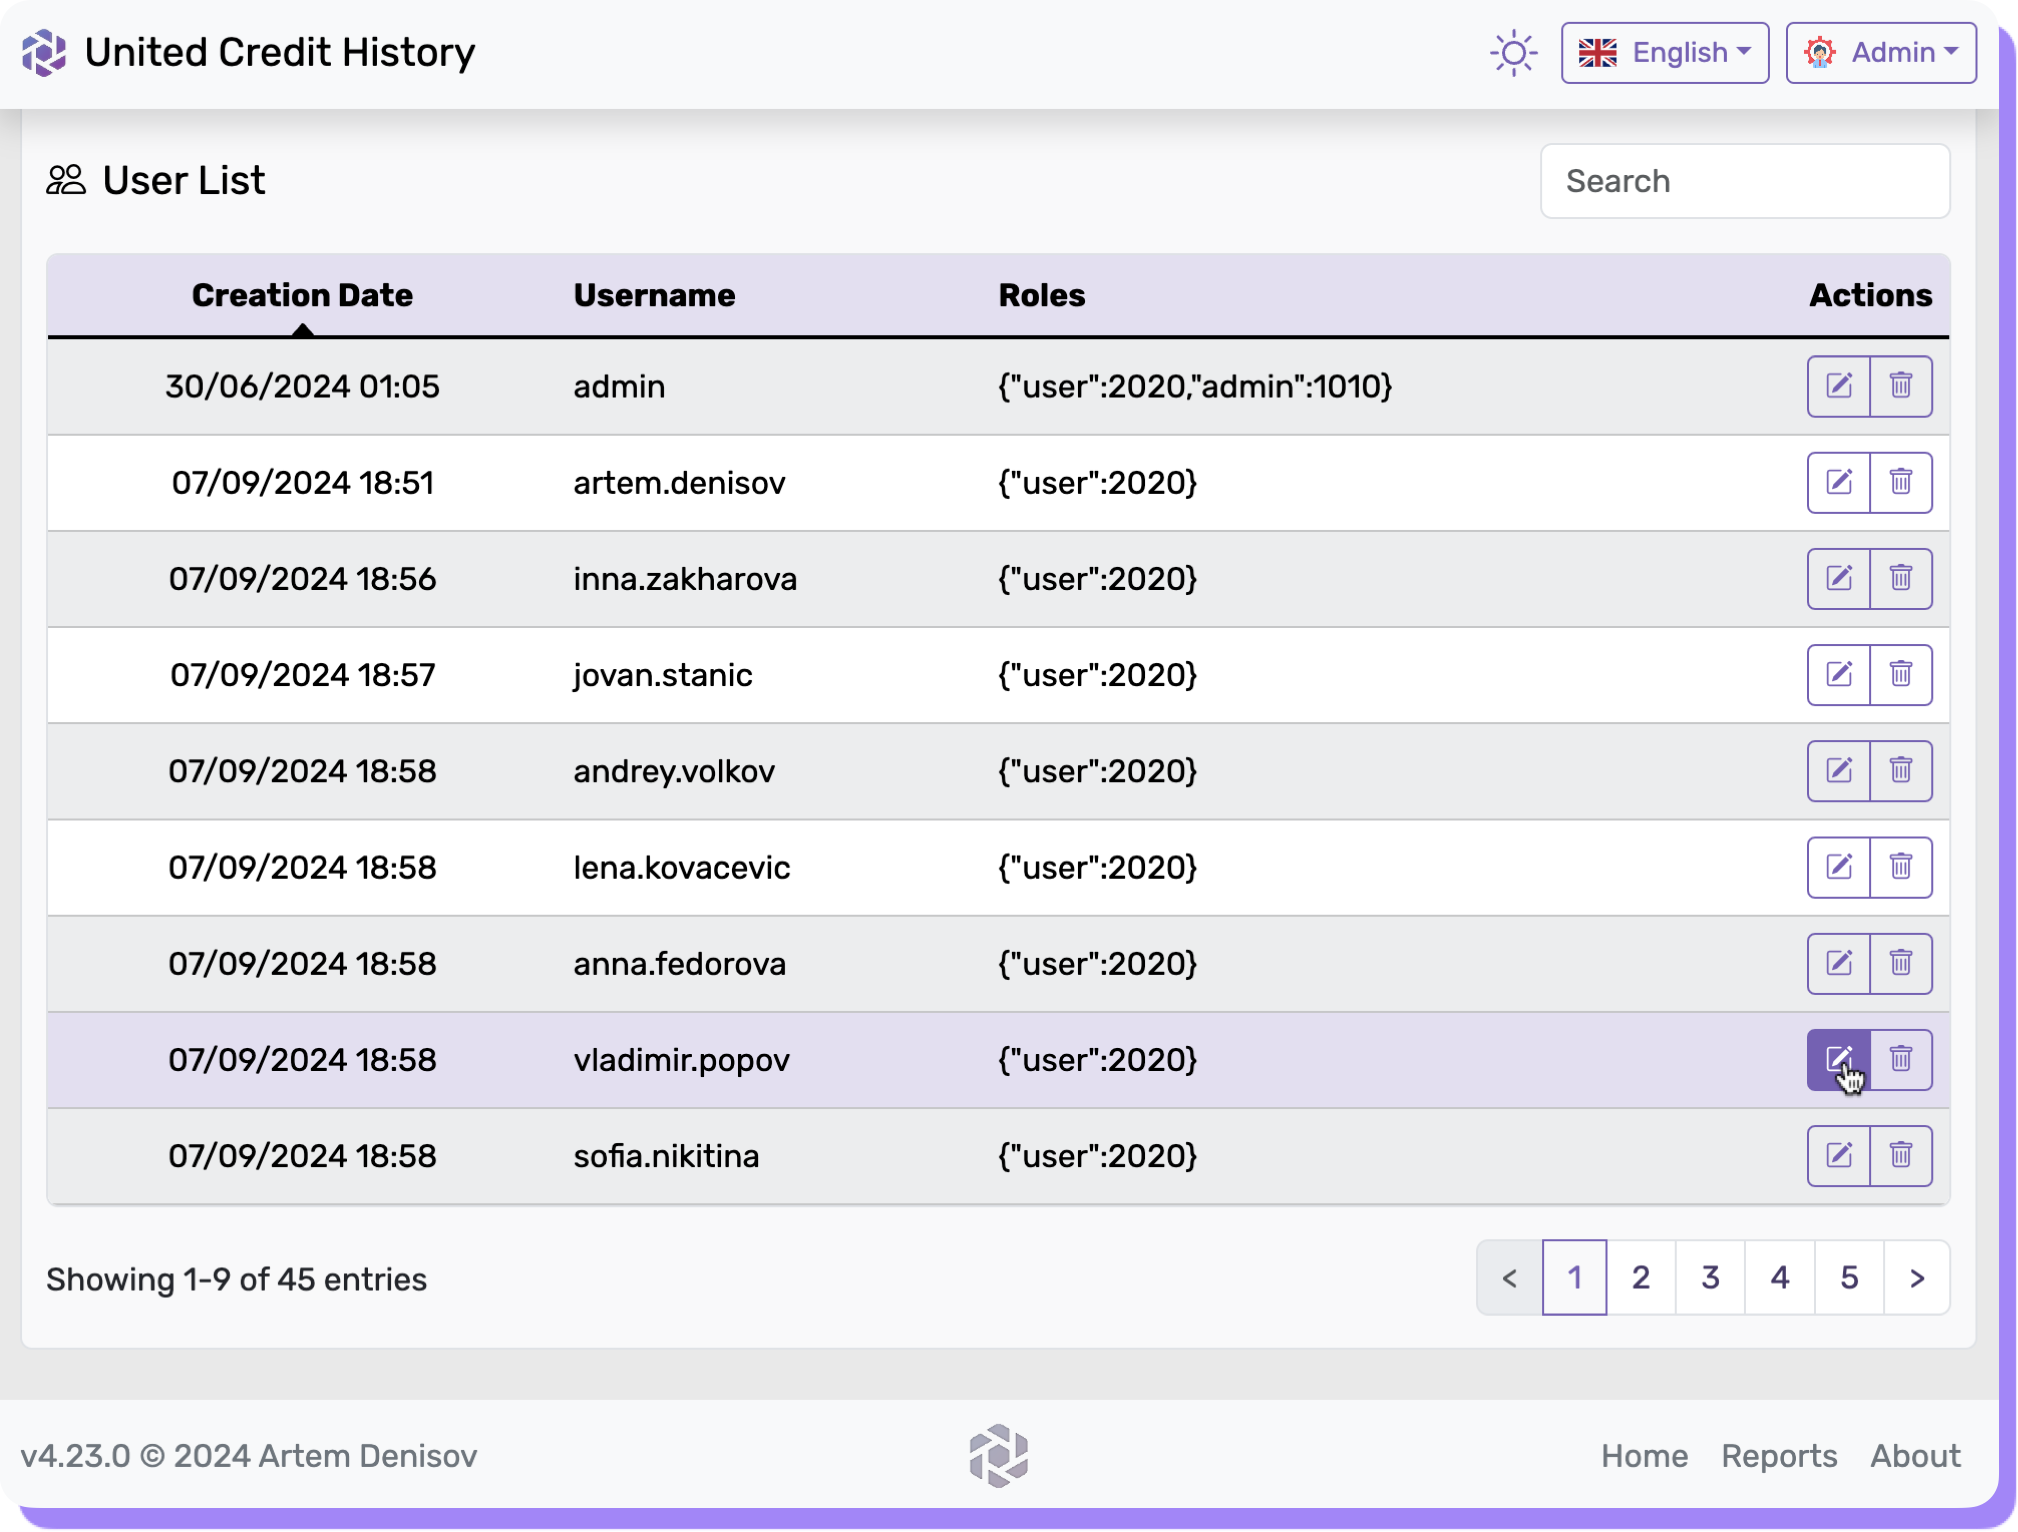
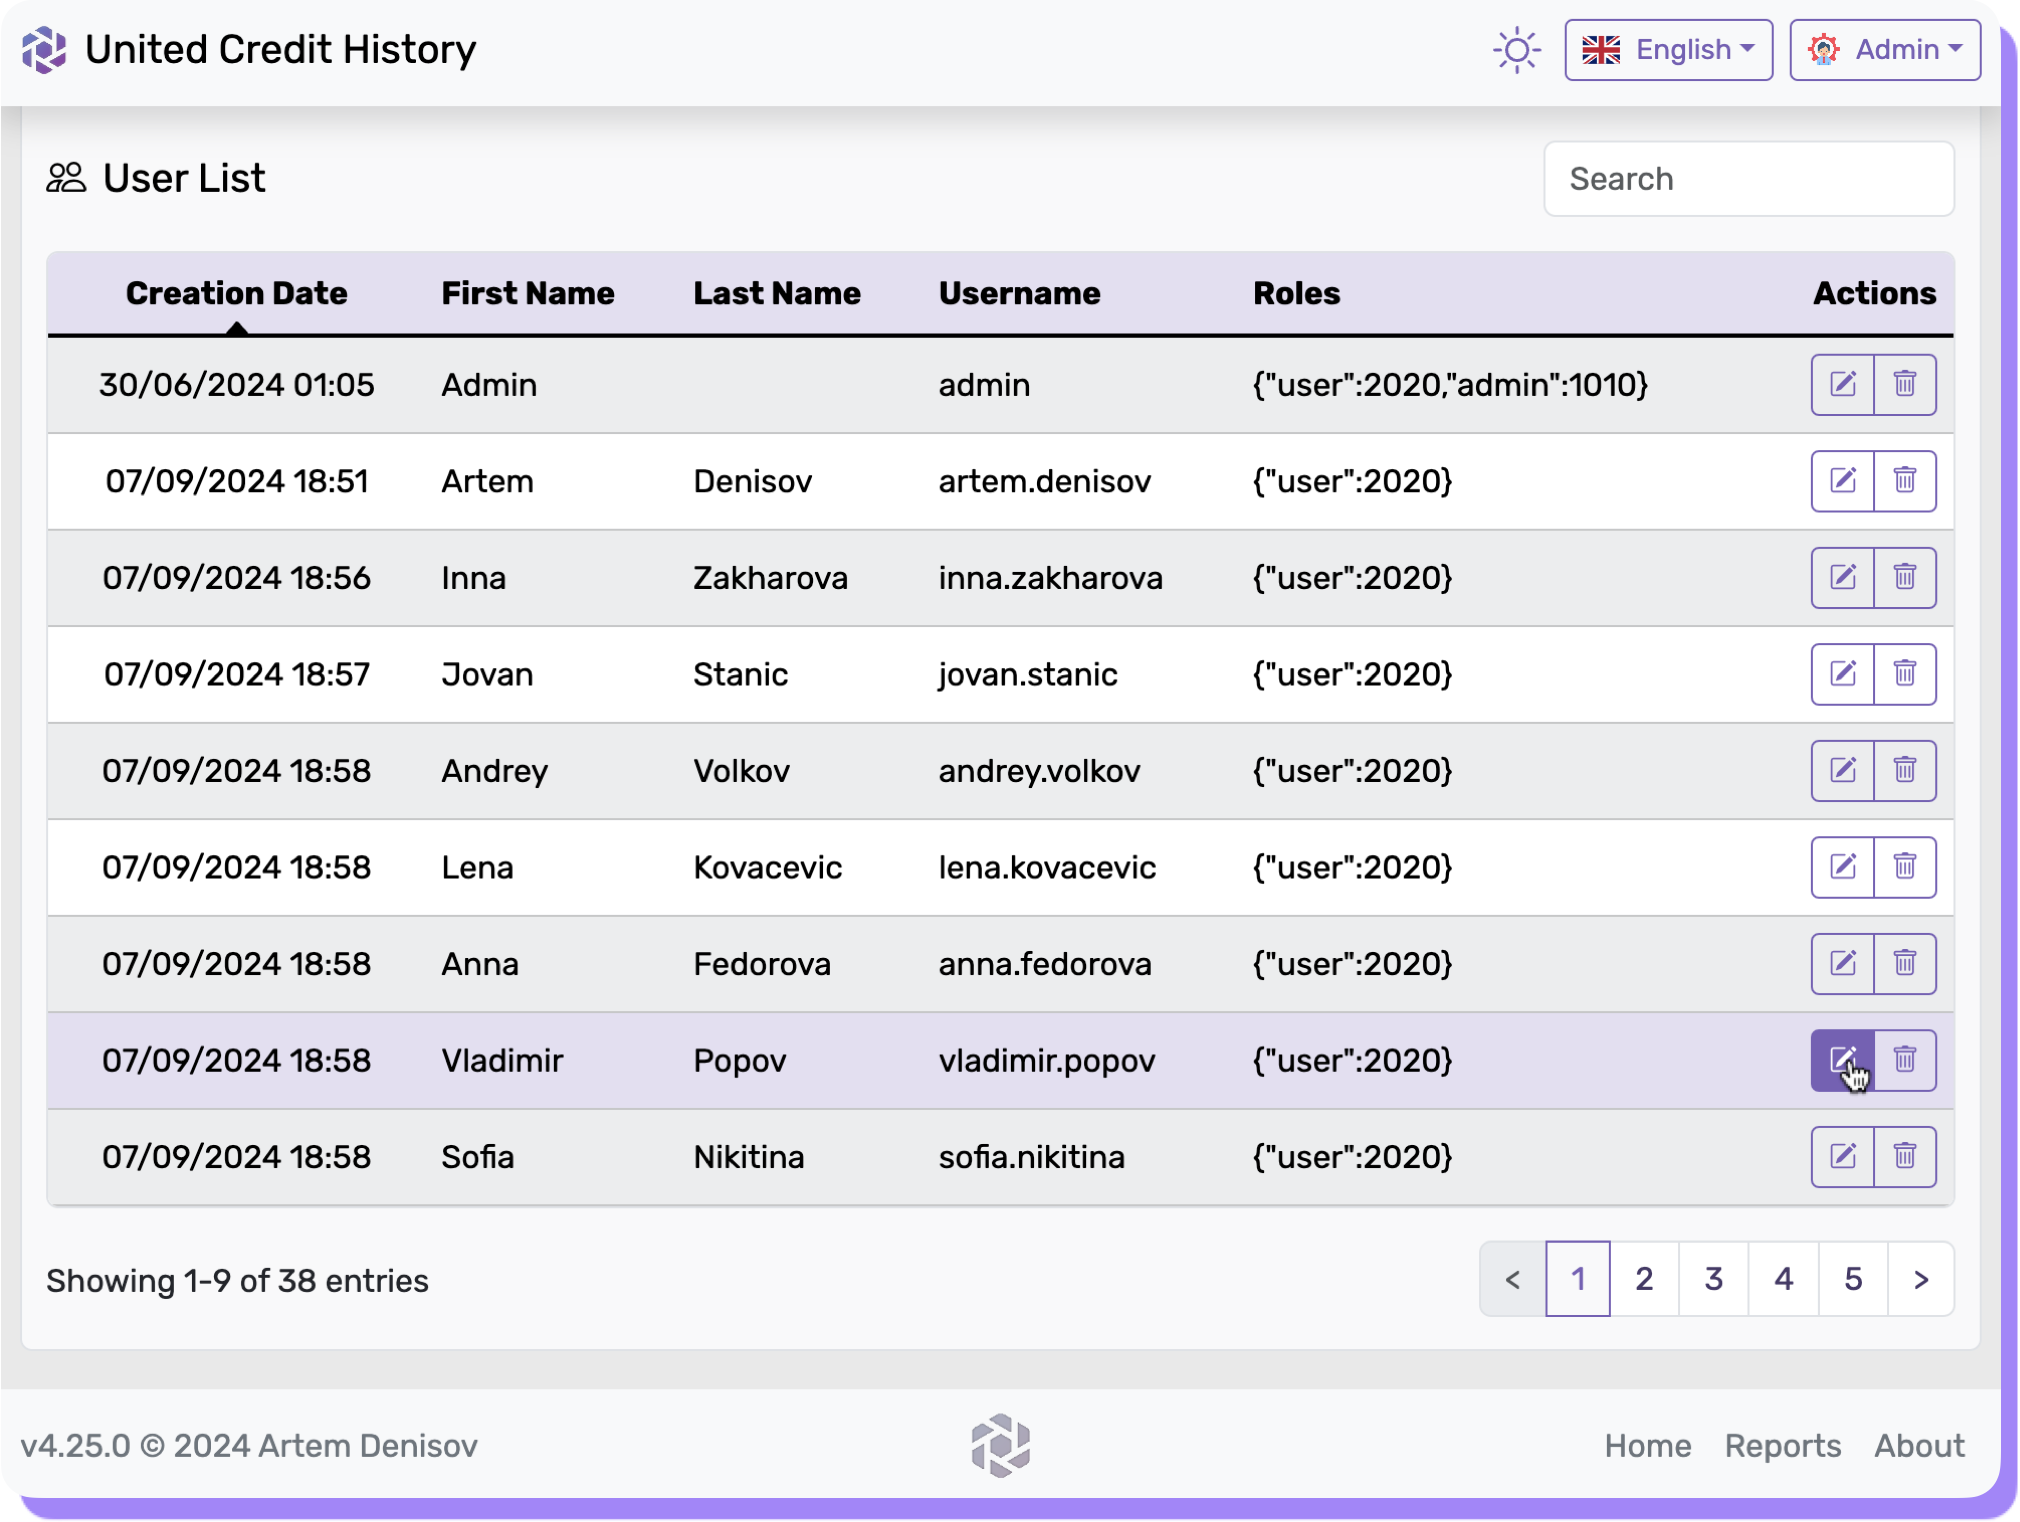
DEV-169 Filling in Names and Displaying in the User Table

diff --git a/src/utils/tableColumns.ts b/src/utils/tableColumns.ts
@@ -293,6 +293,18 @@ export const userListColumns: TableColumn[] = [
         alignment: "text-start",
         dataType: "text",
         sortType: "text",
+        sysName: "firstName",
+    },
+    {
+        alignment: "text-start",
+        dataType: "text",
+        sortType: "text",
+        sysName: "lastName",
+    },
+    {
+        alignment: "text-start",
+        dataType: "text",
+        sortType: "text",
         sysName: "username",
     },
     {
